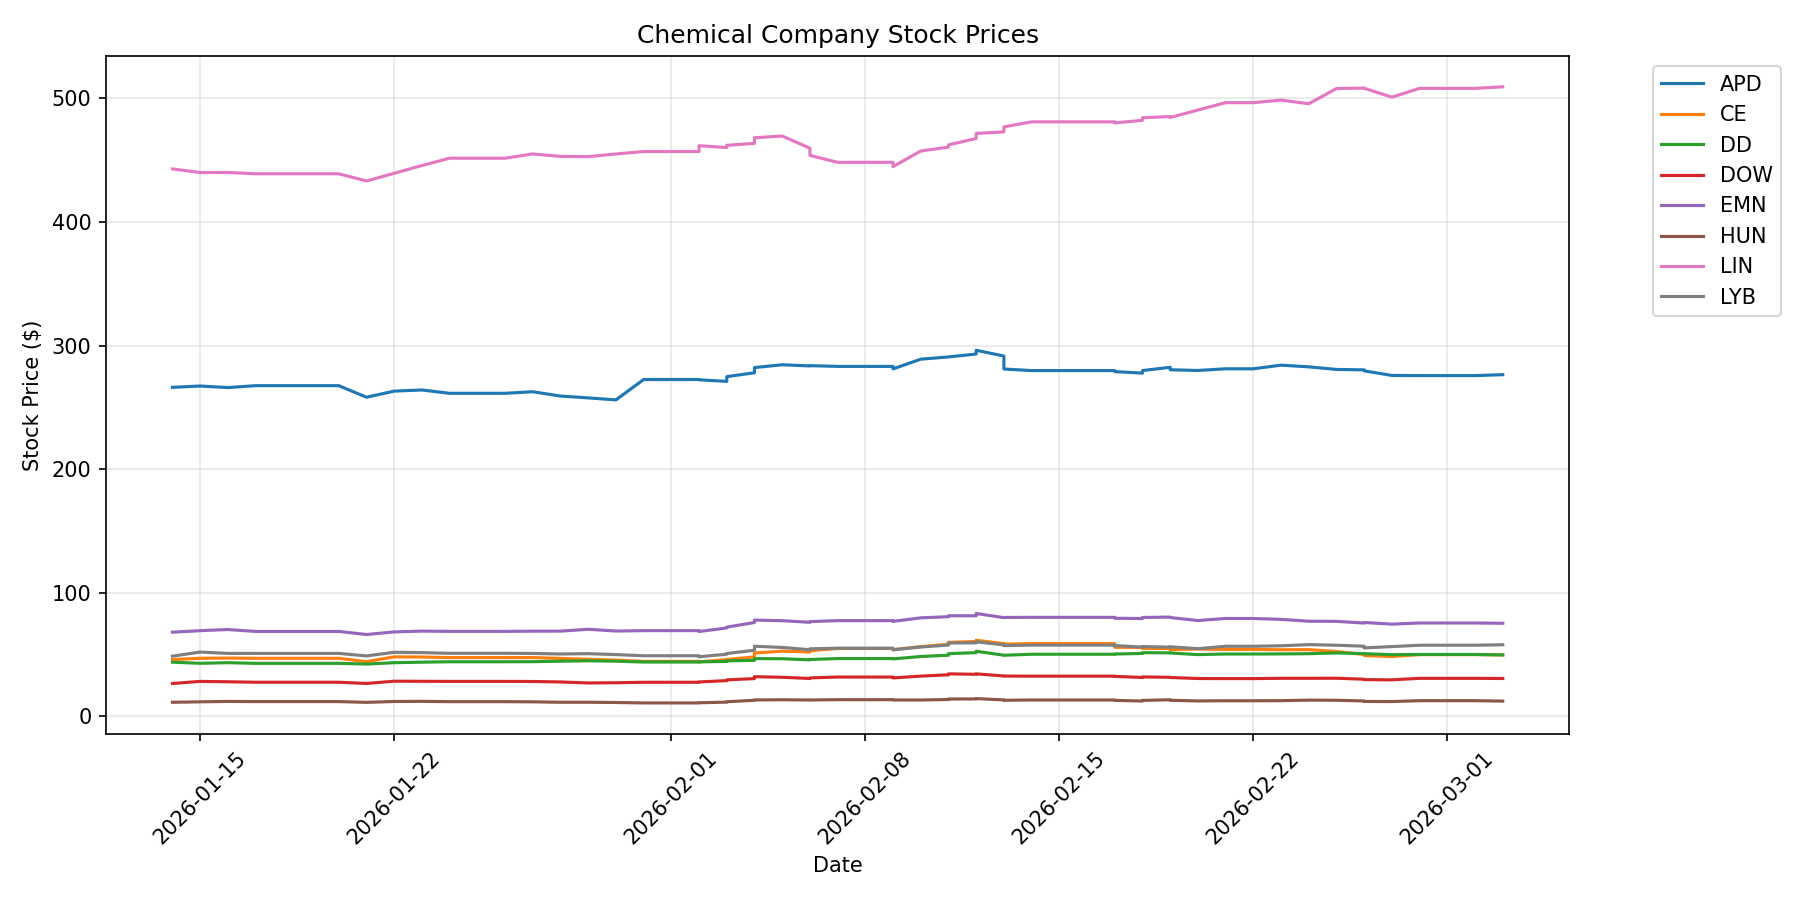
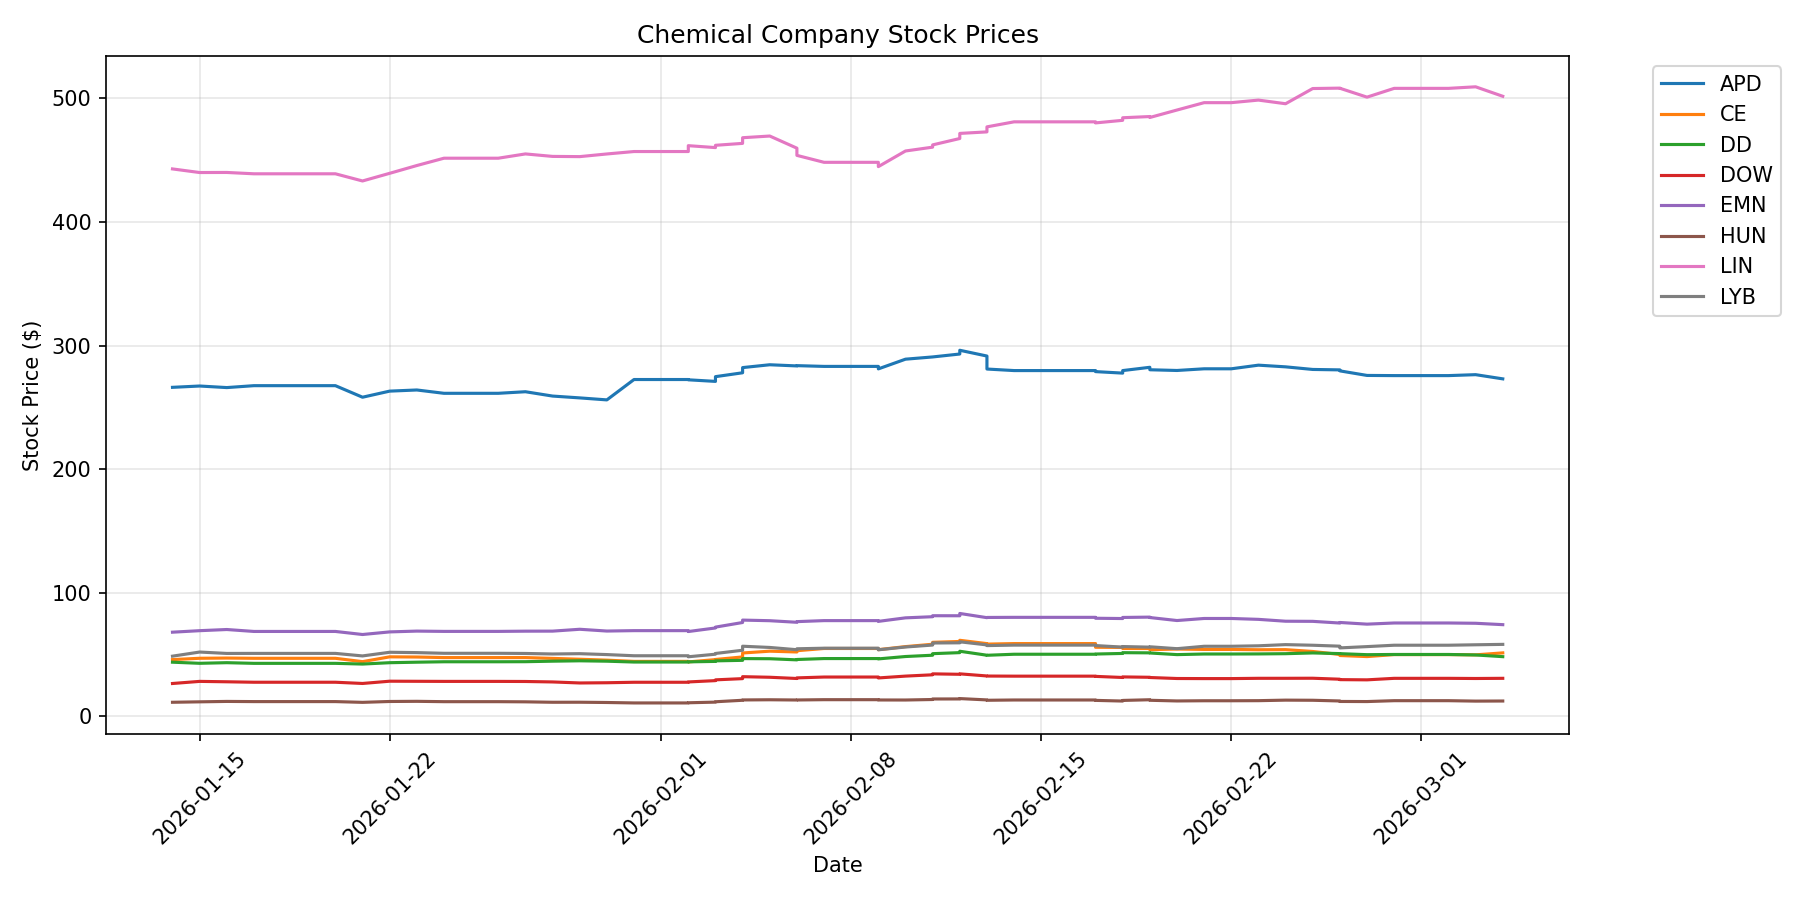
Daily price update: 2026-03-04

diff --git a/README.md b/README.md
@@ -2,29 +2,29 @@
 
 Automated daily tracking of chemical commodity prices and chemical company stocks.
 
-## Latest Prices (Updated: 2026-03-03)
+## Latest Prices (Updated: 2026-03-04)
 
 ### Energy Commodities
 
 | Commodity | Price | Change (24h) | Unit |
 |-----------|-------|--------------|------|
-| WTI Crude Oil | $76.89 | +5.66 (+7.95%) | $/barrel |
-| Brent Crude Oil | $84.07 | +6.33 (+8.14%) | $/barrel |
-| Natural Gas | $3.14 | +0.18 (+5.98%) | $/MMBtu |
-| Heating Oil | $2.94 | +0.04 (+1.50%) | $/gallon |
+| WTI Crude Oil | $74.19 | -0.37 (-0.50%) | $/barrel |
+| Brent Crude Oil | $81.26 | -0.14 (-0.17%) | $/barrel |
+| Natural Gas | $2.96 | -0.10 (-3.14%) | $/MMBtu |
+| Heating Oil | $2.79 | -0.39 (-12.35%) | $/gallon |
 
 ### Chemical Company Stocks
 
 | Company | Ticker | Price | Change (24h) |
 |---------|--------|-------|--------------|
-| Dow Inc. | DOW | $30.60 | -0.13 (-0.42%) |
-| LyondellBasell | LYB | $57.88 | +1.05 (+1.85%) |
-| DuPont | DD | $49.64 | -0.20 (-0.40%) |
-| Air Products | APD | $276.43 | +0.76 (+0.28%) |
-| Linde | LIN | $509.34 | +1.26 (+0.25%) |
-| Eastman Chemical | EMN | $75.28 | -0.23 (-0.30%) |
-| Celanese | CE | $49.73 | -0.21 (-0.42%) |
-| Huntsman | HUN | $12.30 | -0.35 (-2.77%) |
+| Dow Inc. | DOW | $30.74 | +0.14 (+0.46%) |
+| LyondellBasell | LYB | $58.21 | +0.33 (+0.57%) |
+| DuPont | DD | $48.27 | -1.37 (-2.76%) |
+| Air Products | APD | $273.04 | -3.39 (-1.23%) |
+| Linde | LIN | $501.68 | -7.66 (-1.50%) |
+| Eastman Chemical | EMN | $74.16 | -1.12 (-1.49%) |
+| Celanese | CE | $51.32 | +1.59 (+3.20%) |
+| Huntsman | HUN | $12.38 | +0.08 (+0.65%) |
 
 ## Data Sources
 

diff --git a/logs/update_log.md b/logs/update_log.md
@@ -92,3 +92,4 @@ Daily updates to the chemical engineering data repository.
 - **2026-03-02 14:14:40**: Updated 4 energy prices, 8 stocks, 0 FRED series
 - **2026-03-03 00:00:05**: Updated 4 energy prices, 8 stocks, 0 FRED series
 - **2026-03-03 14:14:01**: Updated 4 energy prices, 8 stocks, 0 FRED series
+- **2026-03-04 14:12:38**: Updated 4 energy prices, 8 stocks, 0 FRED series
